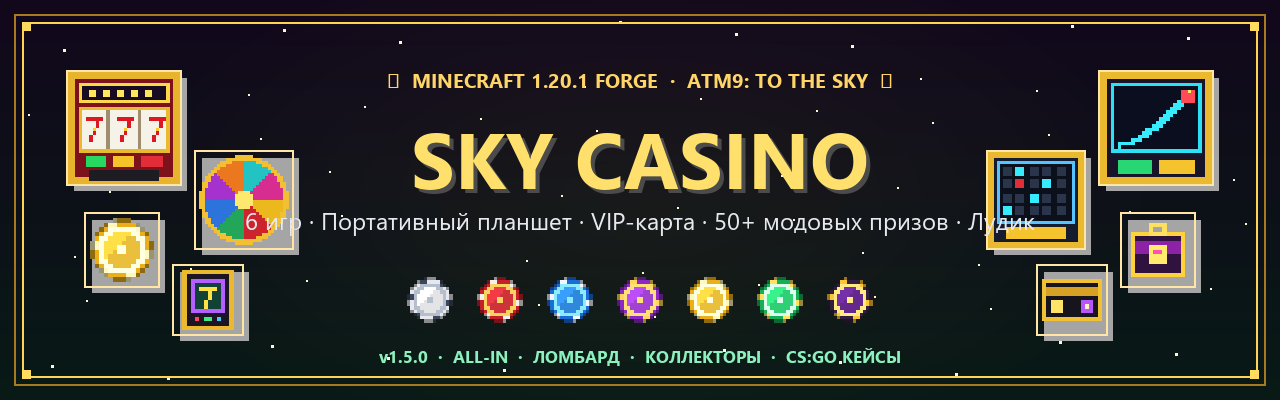
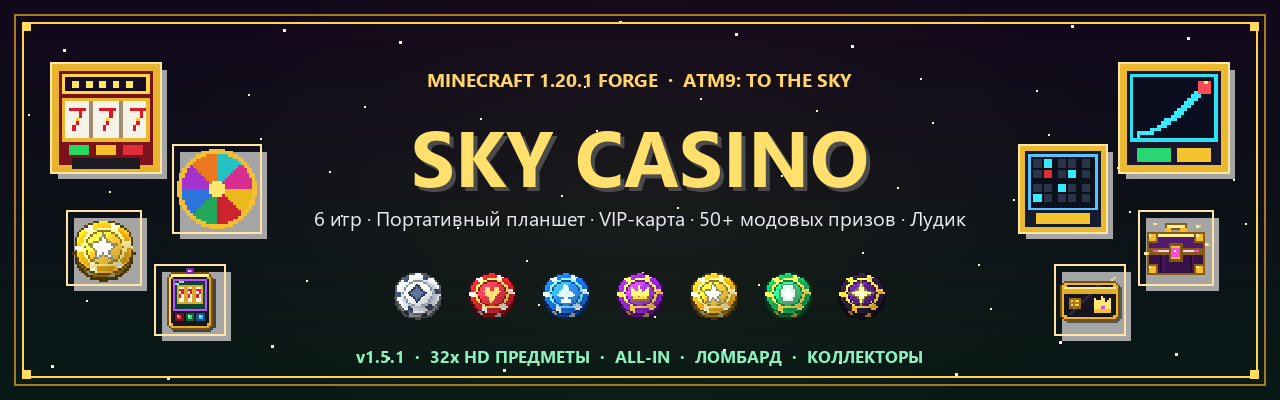
Upgrade all 12 item textures to 32x32 HD luxury pixel art (v1.5.1)

diff --git a/upgrade_item_textures_32x.py b/upgrade_item_textures_32x.py
@@ -1,0 +1,329 @@
+import math
+import os
+from PIL import Image, ImageDraw
+
+ITEM_DIR = r"c:\Users\raiyax\Music\12\SkyCasino\src\main\resources\assets\skycasino\textures\item"
+os.makedirs(ITEM_DIR, exist_ok=True)
+
+def clamp(v):
+    return max(0, min(255, int(round(v))))
+
+def shade_rgb(rgb, factor):
+    return (clamp(rgb[0] * factor), clamp(rgb[1] * factor), clamp(rgb[2] * factor))
+
+def save_item(name, img):
+    img.save(os.path.join(ITEM_DIR, f"{name}.png"))
+
+# ==========================================================
+# 1. ULTRA-DETAILED 32x32 LUXURY CASINO CHIPS
+# ==========================================================
+def draw_luxury_chip(main_c, stripe_c, ring_c, center_c, emblem_c, emblem_type):
+    img = Image.new("RGBA", (32, 32), (0, 0, 0, 0))
+    px = img.load()
+    cx, cy = 15.5, 16.0  # slight vertical offset for 3D coin thickness
+
+    # 3D bottom coin rim (thickness shadow)
+    for y in range(32):
+        for x in range(32):
+            d_bot = math.hypot((x - cx) / 13.5, (y - (cy + 2.0)) / 12.2)
+            if d_bot <= 1.0:
+                if d_bot >= 0.90:
+                    px[x, y] = (*shade_rgb(main_c, 0.30), 255)
+                else:
+                    ang = (math.degrees(math.atan2(y - (cy + 2.0), x - cx)) + 360) % 60
+                    base = stripe_c if ang < 20 else main_c
+                    px[x, y] = (*shade_rgb(base, 0.55), 255)
+
+    # Top beveled face of chip
+    for y in range(32):
+        for x in range(32):
+            dx = (x - cx) / 13.5
+            dy = (y - (cy - 0.8)) / 12.2
+            d = math.hypot(dx, dy)
+            if d <= 1.0:
+                # Directional lighting (top-left bright, bottom-right shaded)
+                light = 1.0 + (-dx * 0.18 - dy * 0.22)
+                if d >= 0.93:
+                    # Crisp dark metallic outline
+                    px[x, y] = (*shade_rgb(main_c, 0.38), 255)
+                elif d >= 0.72:
+                    # Outer clay rim with 6 radial stripes
+                    ang = (math.degrees(math.atan2(dy, dx)) + 360 + 15) % 60
+                    base = stripe_c if ang < 18 else main_c
+                    # Subtle inner bevel highlight at rim transition
+                    if 0.86 <= d < 0.93:
+                        light += 0.14
+                    px[x, y] = (*shade_rgb(base, light), 255)
+                elif d >= 0.63:
+                    # Recessed metallic gold/accent ring
+                    px[x, y] = (*shade_rgb(ring_c, light * 1.06), 255)
+                elif d >= 0.57:
+                    # Inner groove shadow
+                    px[x, y] = (*shade_rgb(center_c, 0.58), 255)
+                else:
+                    # Glossy center medallion
+                    gloss = light + (0.22 if (dx + dy < -0.25) else 0.0)
+                    px[x, y] = (*shade_rgb(center_c, gloss), 255)
+
+    # Embossed Center Emblem (crisp pixel art per tier!)
+    d = ImageDraw.Draw(img)
+    ec = (*emblem_c, 255)
+    ec_hi = (*shade_rgb(emblem_c, 1.35), 255)
+    ec_sh = (*shade_rgb(emblem_c, 0.55), 255)
+
+    if emblem_type == "dot":  # White (1) - classic diamond pip
+        pts = [(15, 11), (16, 11), (14, 12), (17, 12), (13, 13), (18, 13),
+               (12, 14), (19, 14), (12, 15), (19, 15), (13, 16), (18, 16),
+               (14, 17), (17, 17), (15, 18), (16, 18)]
+        d.polygon([(15, 10), (20, 15), (15, 20), (10, 15)], fill=ec, outline=ec_sh)
+        d.polygon([(15, 12), (18, 15), (15, 18), (12, 15)], fill=ec_hi)
+    elif emblem_type == "heart":  # Red (5)
+        d.rectangle([12, 12, 14, 15], fill=ec)
+        d.rectangle([17, 12, 19, 15], fill=ec)
+        d.polygon([(11, 14), (20, 14), (15, 20)], fill=ec)
+        d.point((13, 13), fill=ec_hi)
+    elif emblem_type == "spade":  # Blue (25)
+        d.polygon([(15, 10), (20, 16), (11, 16)], fill=ec)
+        d.rectangle([12, 15, 14, 17], fill=ec)
+        d.rectangle([17, 15, 19, 17], fill=ec)
+        d.rectangle([15, 17, 16, 20], fill=ec)
+        d.rectangle([13, 19, 18, 20], fill=ec_hi)
+    elif emblem_type == "crown":  # Purple (100)
+        d.rectangle([11, 16, 20, 19], fill=ec, outline=ec_sh)
+        d.polygon([(11, 16), (11, 12), (14, 15), (15, 11), (17, 15), (20, 12), (20, 16)], fill=ec_hi)
+        d.point((15, 17), fill=(255, 80, 160, 255))
+    elif emblem_type == "star":  # Gold (1,000)
+        d.polygon([(15, 9), (17, 13), (21, 14), (18, 17), (19, 21), (15, 18), (11, 21), (12, 17), (9, 14), (13, 13)], fill=ec_hi, outline=ec_sh)
+        d.rectangle([14, 14, 16, 16], fill=(255, 255, 240, 255))
+    elif emblem_type == "emerald":  # Emerald Mega (10,000)
+        d.polygon([(13, 10), (18, 10), (20, 13), (20, 17), (18, 20), (13, 20), (11, 17), (11, 13)], fill=ec, outline=ec_sh)
+        d.polygon([(14, 12), (17, 12), (18, 14), (18, 16), (17, 18), (14, 18), (13, 16), (13, 14)], fill=ec_hi)
+        d.point((14, 13), fill=(255, 255, 255, 255))
+    elif emblem_type == "mythic":  # Netherite/Star Mega (100,000)
+        # Radiant 4-point mythic star + sparkles
+        d.polygon([(15, 8), (17, 13), (22, 15), (17, 17), (15, 22), (13, 17), (8, 15), (13, 13)], fill=ec_hi, outline=ec_sh)
+        d.rectangle([14, 14, 16, 16], fill=(255, 255, 255, 255))
+        for sp in [(10, 10), (21, 10), (10, 20), (21, 20)]:
+            px[sp[0], sp[1]] = (255, 240, 140, 255)
+
+    return img
+
+# ==========================================================
+# 2. POCKET CASINO TABLET (32x32 Luxury Gaming Deck)
+# ==========================================================
+def draw_pocket_casino():
+    img = Image.new("RGBA", (32, 32), (0, 0, 0, 0))
+    d = ImageDraw.Draw(img)
+
+    # Drop shadow
+    d.rounded_rectangle([6, 4, 27, 30], radius=3, fill=(10, 8, 16, 160))
+    # Outer 24k Gold Metallic Casing
+    d.rounded_rectangle([5, 3, 26, 29], radius=3, fill=(225, 172, 42, 255), outline=(120, 82, 16, 255))
+    # Top-left gold specular bevel
+    d.line([7, 4, 24, 4], fill=(255, 238, 155, 255))
+    d.line([6, 5, 6, 27], fill=(250, 214, 98, 255))
+    # Dark obsidian inner bezel
+    d.rounded_rectangle([7, 5, 24, 27], radius=2, fill=(24, 20, 34, 255))
+
+    # Glowing Emerald-Neon Screen
+    d.rectangle([8, 6, 23, 20], fill=(12, 48, 38, 255), outline=(185, 85, 255, 255))
+    d.rectangle([9, 7, 22, 19], fill=(16, 66, 52, 255))
+    # Mini 3-Reel Slot Display on screen
+    for rx in [10, 14, 18]:
+        d.rectangle([rx, 9, rx + 3, 17], fill=(248, 244, 232, 255), outline=(218, 168, 45, 255))
+        # Tiny red/gold "7" in each reel
+        d.line([rx + 1, 11, rx + 2, 11], fill=(220, 28, 38, 255))
+        d.point((rx + 2, 12), fill=(220, 28, 38, 255))
+        d.point((rx + 1, 13), fill=(220, 28, 38, 255))
+        d.point((rx + 1, 14), fill=(220, 28, 38, 255))
+    # Screen glass diagonal reflection
+    d.line([9, 8, 12, 7], fill=(150, 255, 225, 140))
+
+    # Glowing Arcade Buttons below screen
+    d.rectangle([9, 22, 12, 25], fill=(240, 55, 75, 255), outline=(120, 18, 28, 255))
+    d.point((10, 23), fill=(255, 165, 175, 255))
+    d.rectangle([14, 22, 17, 25], fill=(45, 225, 125, 255), outline=(16, 105, 52, 255))
+    d.point((15, 23), fill=(175, 255, 205, 255))
+    d.rectangle([19, 22, 22, 25], fill=(55, 195, 255, 255), outline=(18, 88, 135, 255))
+    d.point((20, 23), fill=(185, 242, 255, 255))
+
+    # Top glowing amethyst crystal emitter
+    d.rectangle([14, 1, 17, 3], fill=(215, 105, 255, 255), outline=(120, 35, 165, 255))
+    d.point((15, 2), fill=(255, 225, 255, 255))
+
+    return img
+
+# ==========================================================
+# 3. VIP CASINO CARD (32x32 Obsidian & 24k Gold Metal Card)
+# ==========================================================
+def draw_vip_card():
+    img = Image.new("RGBA", (32, 32), (0, 0, 0, 0))
+    d = ImageDraw.Draw(img)
+
+    # Drop shadow
+    d.rounded_rectangle([3, 8, 30, 26], radius=3, fill=(0, 0, 0, 120))
+    # Outer Gold Metal Rim
+    d.rounded_rectangle([2, 7, 29, 25], radius=3, fill=(235, 182, 46, 255), outline=(115, 78, 16, 255))
+    # Obsidian Carbon Face
+    d.rounded_rectangle([4, 9, 27, 23], radius=2, fill=(22, 20, 32, 255))
+
+    # Metallic diagonal sheen across card
+    for i in range(14):
+        x0 = 6 + i
+        y0 = 22 - i
+        if 4 <= x0 <= 27 and 9 <= y0 <= 23:
+            d.point((x0, y0), fill=(48, 44, 68, 255))
+            if x0 + 1 <= 27:
+                d.point((x0 + 1, y0), fill=(36, 33, 52, 255))
+
+    # Top Golden Stripe
+    d.rectangle([4, 10, 27, 12], fill=(225, 174, 42, 255))
+    d.line([4, 10, 27, 10], fill=(255, 236, 145, 255))
+
+    # Embossed Gold EMV Chip (left side)
+    d.rectangle([6, 15, 11, 19], fill=(248, 208, 78, 255), outline=(145, 102, 22, 255))
+    d.line([8, 15, 8, 19], fill=(165, 120, 28, 255))
+    d.line([6, 17, 11, 17], fill=(165, 120, 28, 255))
+
+    # Glowing Amethyst/Gold VIP Crown Emblem (right side)
+    d.rectangle([18, 19, 25, 21], fill=(245, 195, 55, 255))
+    d.polygon([(18, 19), (18, 15), (20, 17), (21, 14), (23, 17), (25, 15), (25, 19)], fill=(255, 230, 110, 255))
+    d.point((21, 19), fill=(215, 75, 255, 255))
+    d.point((22, 19), fill=(215, 75, 255, 255))
+
+    # Subtle sparkle on top-right
+    d.point((26, 6), fill=(255, 245, 175, 255))
+    d.point((27, 5), fill=(255, 225, 95, 200))
+    return img
+
+# ==========================================================
+# 4. CLASSIC & VIP LOOT CASES (32x32 Detailed 3D Briefcases)
+# ==========================================================
+def draw_loot_case(vip):
+    img = Image.new("RGBA", (32, 32), (0, 0, 0, 0))
+    d = ImageDraw.Draw(img)
+
+    if vip:
+        body = (54, 18, 72)
+        lid = (82, 26, 108)
+        trim = (242, 190, 48)
+        trim_hi = (255, 240, 155)
+        trim_sh = (135, 92, 18)
+        glow = (255, 75, 205)
+        glow_hi = (255, 205, 245)
+    else:
+        body = (28, 52, 86)
+        lid = (42, 78, 124)
+        trim = (185, 205, 225)
+        trim_hi = (235, 248, 255)
+        trim_sh = (65, 85, 112)
+        glow = (45, 215, 248)
+        glow_hi = (200, 252, 255)
+
+    # Carry Handle on top
+    d.rectangle([11, 5, 20, 7], fill=(*trim, 255), outline=(*trim_sh, 255))
+    d.rectangle([11, 7, 13, 10], fill=(*trim, 255))
+    d.rectangle([18, 7, 20, 10], fill=(*trim, 255))
+    d.line([12, 6, 19, 6], fill=(*trim_hi, 255))
+
+    # Main Case Body
+    d.rounded_rectangle([3, 9, 28, 27], radius=3, fill=(*body, 255), outline=(*trim_sh, 255))
+    # Top Lid Bevel
+    d.rounded_rectangle([4, 10, 27, 17], radius=2, fill=(*lid, 255))
+    d.line([5, 10, 26, 10], fill=(*trim_hi, 255))
+
+    # Reinforced Metallic Corner Brackets
+    for bx, by in [(3, 9), (24, 9), (3, 23), (24, 23)]:
+        d.rectangle([bx, by, bx + 4, by + 4], fill=(*trim, 255), outline=(*trim_sh, 255))
+        d.point((bx + 1, by + 1), fill=(*trim_hi, 255))
+
+    # Horizontal Seam + Glowing Energy Strip
+    d.rectangle([4, 16, 27, 18], fill=(*trim_sh, 255))
+    d.line([6, 17, 25, 17], fill=(*glow, 255))
+    d.line([8, 17, 23, 17], fill=(*glow_hi, 255))
+
+    # Central Golden/Jewel Lock Clasp
+    d.rectangle([13, 14, 18, 21], fill=(242, 192, 48, 255), outline=(128, 86, 16, 255))
+    d.rectangle([14, 16, 17, 19], fill=(*glow, 255))
+    d.point((15, 17), fill=(255, 255, 255, 255))
+
+    # Vertical ribs on lower body
+    for rx in [9, 22]:
+        d.line([rx, 19, rx, 25], fill=(*shade_rgb(body, 0.65), 255))
+        d.line([rx + 1, 19, rx + 1, 25], fill=(*shade_rgb(body, 1.25), 255))
+
+    # Sparkles around VIP Case
+    if vip:
+        for sx, sy in [(6, 5), (25, 6), (2, 18), (29, 14)]:
+            d.point((sx, sy), fill=(255, 240, 145, 255))
+            d.point((sx + 1, sy), fill=(255, 210, 75, 180))
+
+    return img
+
+# ==========================================================
+# 5. ANTI-TILT ESPRESSO MUG (32x32 Steaming Luxury Coffee)
+# ==========================================================
+def draw_anti_tilt_coffee():
+    img = Image.new("RGBA", (32, 32), (0, 0, 0, 0))
+    d = ImageDraw.Draw(img)
+
+    # Rising aromatic cyan-white steam curls
+    steam1 = [(11, 8), (10, 7), (11, 6), (12, 5), (11, 4)]
+    steam2 = [(16, 7), (17, 6), (16, 5), (15, 4), (16, 3)]
+    steam3 = [(20, 8), (21, 7), (20, 6), (19, 5)]
+    for i, p in enumerate(steam1 + steam2 + steam3):
+        a = 220 - (i % 5) * 30
+        d.point(p, fill=(205, 248, 255, a))
+
+    # Golden Mug Handle (right side)
+    d.rounded_rectangle([21, 13, 27, 23], radius=3, outline=(235, 182, 46, 255), width=2)
+    d.line([23, 14, 25, 14], fill=(255, 238, 155, 255))
+
+    # Saucer / Base shadow
+    d.ellipse([5, 25, 24, 29], fill=(215, 165, 38, 255), outline=(115, 78, 16, 255))
+
+    # Mug Cylinder Body (rich obsidian-espresso ceramic with vertical lighting)
+    for y in range(11, 27):
+        for x in range(7, 22):
+            nx = (x - 14.0) / 7.5
+            light = 1.0 - nx * 0.35 + (0.25 if -0.65 < nx < -0.25 else 0.0)
+            col = shade_rgb((46, 36, 58), light)
+            img.putpixel((x, y), (*col, 255))
+
+    # Gold Rim & Bottom Trim
+    d.rectangle([7, 11, 22, 13], fill=(242, 192, 48, 255), outline=(128, 86, 18, 255))
+    d.line([8, 12, 21, 12], fill=(255, 242, 165, 255))
+    d.line([7, 26, 22, 26], fill=(235, 182, 46, 255))
+
+    # Rich Coffee Crema inside top opening
+    d.ellipse([8, 10, 21, 14], fill=(118, 66, 32, 255), outline=(235, 185, 50, 255))
+    d.ellipse([10, 11, 18, 13], fill=(168, 108, 56, 255))
+
+    # Glowing Cyan Anti-Tilt Diamond Emblem on mug front
+    d.polygon([(14, 16), (18, 20), (14, 24), (10, 20)], fill=(45, 220, 250, 255), outline=(18, 110, 145, 255))
+    d.polygon([(14, 18), (16, 20), (14, 22), (12, 20)], fill=(195, 252, 255, 255))
+    d.point((14, 19), fill=(255, 255, 255, 255))
+
+    return img
+
+def main():
+    # 7 Luxury 32x32 Chips
+    save_item("white_chip",     draw_luxury_chip((232, 236, 244), (58, 72, 98),   (185, 198, 218), (248, 250, 255), (70, 88, 120),   "dot"))
+    save_item("red_chip",       draw_luxury_chip((205, 32, 46),   (248, 242, 232),(245, 202, 78),  (228, 52, 66),   (255, 225, 120), "heart"))
+    save_item("blue_chip",      draw_luxury_chip((26, 108, 224),  (240, 248, 255),(110, 225, 255), (48, 142, 245),  (225, 250, 255), "spade"))
+    save_item("purple_chip",    draw_luxury_chip((142, 36, 205),  (255, 212, 78), (255, 218, 92),  (168, 58, 232),  (255, 220, 88),  "crown"))
+    save_item("gold_chip",      draw_luxury_chip((238, 176, 24),  (255, 248, 195),(255, 238, 140), (252, 204, 58),  (255, 250, 205), "star"))
+    save_item("emerald_chip",   draw_luxury_chip((18, 168, 86),   (255, 222, 82), (248, 212, 85),  (38, 208, 114),  (205, 255, 225), "emerald"))
+    save_item("netherite_chip", draw_luxury_chip((42, 26, 58),    (255, 198, 48), (255, 212, 78),  (88, 34, 132),   (255, 232, 115), "mythic"))
+
+    # 5 Luxury 32x32 Special Items
+    save_item("pocket_casino",     draw_pocket_casino())
+    save_item("vip_card",          draw_vip_card())
+    save_item("loot_case_classic", draw_loot_case(False))
+    save_item("loot_case_vip",     draw_loot_case(True))
+    save_item("anti_tilt_coffee",  draw_anti_tilt_coffee())
+
+    print("All 12 item textures upgraded to 32x32 HD pixel art!")
+
+if __name__ == "__main__":
+    main()

diff --git a/generate_docs_art.py b/generate_docs_art.py
@@ -58,16 +58,16 @@ def make_banner():
 
     # Left & Right feature textures (Slot Machine, Fortune Wheel, Crash, Mines)
     left_blocks = [
-        ("block/slot_machine_front.png", 68, 72, 112),
-        ("block/fortune_wheel_face.png", 196, 152, 96),
-        ("item/gold_chip.png", 86, 214, 72),
-        ("item/pocket_casino.png", 174, 266, 68),
+        ("block/slot_machine_front.png", 52, 64, 108),
+        ("block/fortune_wheel_face.png", 174, 146, 86),
+        ("item/gold_chip.png", 68, 212, 72),
+        ("item/pocket_casino.png", 156, 266, 68),
     ]
     right_blocks = [
-        ("block/crash_machine_front.png", W - 180, 72, 112),
-        ("block/mines_machine_front.png", W - 292, 152, 96),
-        ("item/loot_case_vip.png", W - 158, 214, 72),
-        ("item/vip_card.png", W - 242, 266, 68),
+        ("block/crash_machine_front.png", W - 160, 64, 108),
+        ("block/mines_machine_front.png", W - 260, 146, 86),
+        ("item/loot_case_vip.png", W - 140, 212, 72),
+        ("item/vip_card.png", W - 224, 266, 68),
     ]
     for rel, x, y, sz in left_blocks + right_blocks:
         t = load_tex(rel, sz)
@@ -77,20 +77,20 @@ def make_banner():
         d.rectangle([x - 2, y - 2, x + sz + 1, y + sz + 1], outline=(255, 209, 92, 140), width=2)
 
     # Center Title Typography
-    f_tag = get_font(20, bold=True)
+    f_tag = get_font(19, bold=True)
     f_title = get_font(78, bold=True)
-    f_sub = get_font(24, bold=False)
+    f_sub = get_font(20, bold=False)
     f_pills = get_font(17, bold=True)
 
-    tag = "★  MINECRAFT 1.20.1 FORGE  ·  ATM9: TO THE SKY  ★"
+    tag = "MINECRAFT 1.20.1 FORGE  ·  ATM9: TO THE SKY"
     tb = d.textbbox((0, 0), tag, font=f_tag)
     d.text(((W - (tb[2] - tb[0])) // 2, 66), tag, font=f_tag, fill=(255, 209, 92, 235))
 
     title = "SKY CASINO"
     ttb = d.textbbox((0, 0), title, font=f_title)
     tx = (W - (ttb[2] - ttb[0])) // 2
-    d.text((tx + 4, 108), title, font=f_title, fill=(0, 0, 0, 180))
-    d.text((tx, 104), title, font=f_title, fill=(255, 224, 108, 255))
+    d.text((tx + 4, 106), title, font=f_title, fill=(0, 0, 0, 180))
+    d.text((tx, 102), title, font=f_title, fill=(255, 224, 108, 255))
 
     sub = "6 игр · Портативный планшет · VIP-карта · 50+ модовых призов · Лудик"
     sb = d.textbbox((0, 0), sub, font=f_sub)
@@ -101,15 +101,15 @@ def make_banner():
         "item/white_chip.png", "item/red_chip.png", "item/blue_chip.png",
         "item/purple_chip.png", "item/gold_chip.png", "item/emerald_chip.png", "item/netherite_chip.png"
     ]
-    chip_sz = 52
+    chip_sz = 56
     gap = 18
     total_w = len(chips) * chip_sz + (len(chips) - 1) * gap
     start_x = (W - total_w) // 2
     for i, c in enumerate(chips):
         cx = start_x + i * (chip_sz + gap)
-        img.alpha_composite(load_tex(c, chip_sz), (cx, 274))
+        img.alpha_composite(load_tex(c, chip_sz), (cx, 266))
 
-    badge = "v1.5.0  ·  ALL-IN  ·  ЛОМБАРД  ·  КОЛЛЕКТОРЫ  ·  CS:GO КЕЙСЫ"
+    badge = "v1.5.1  ·  32x HD ПРЕДМЕТЫ  ·  ALL-IN  ·  ЛОМБАРД  ·  КОЛЛЕКТОРЫ"
     bb = d.textbbox((0, 0), badge, font=f_pills)
     d.text(((W - (bb[2] - bb[0])) // 2, 344), badge, font=f_pills, fill=(130, 240, 185, 235))
 
